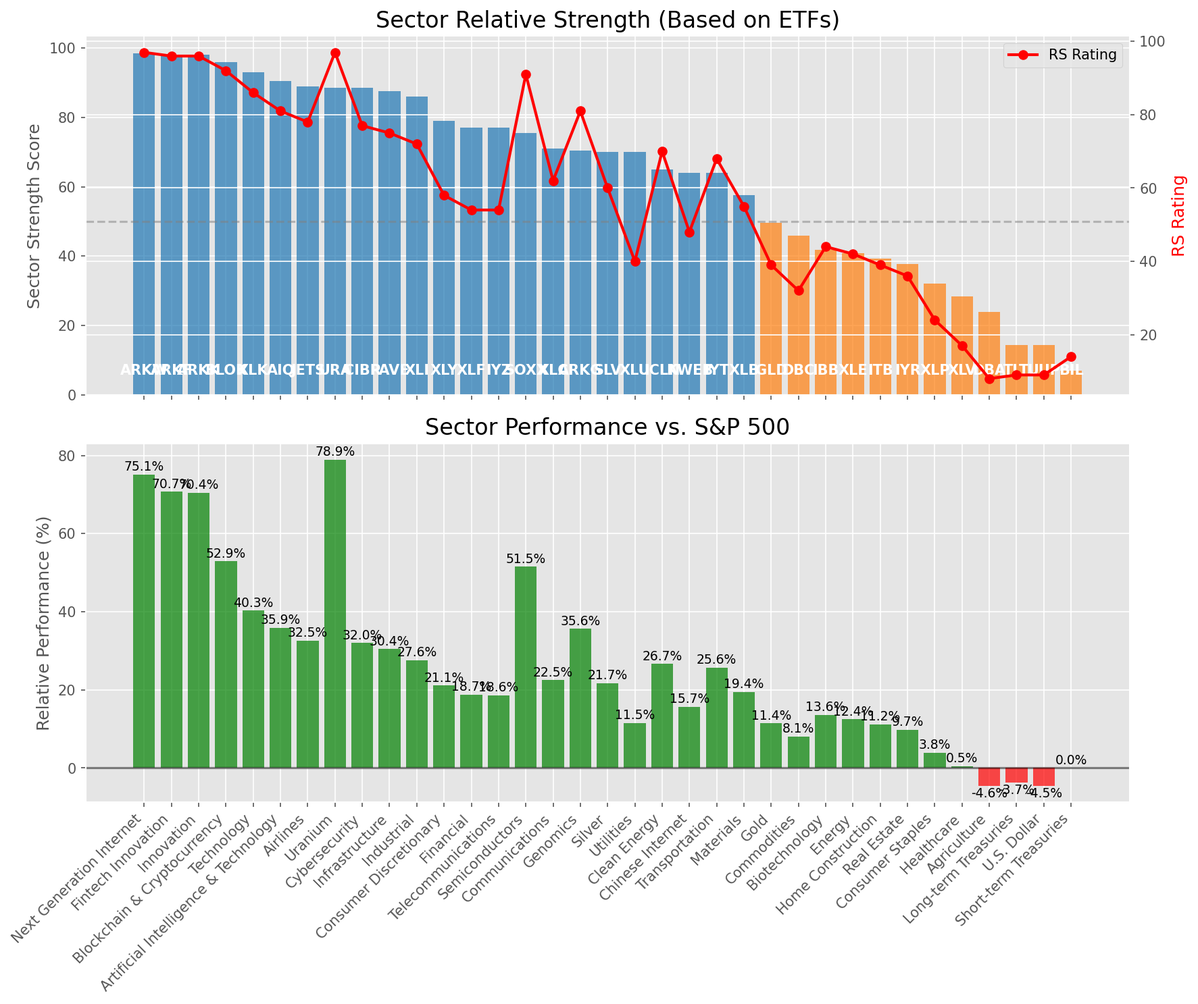
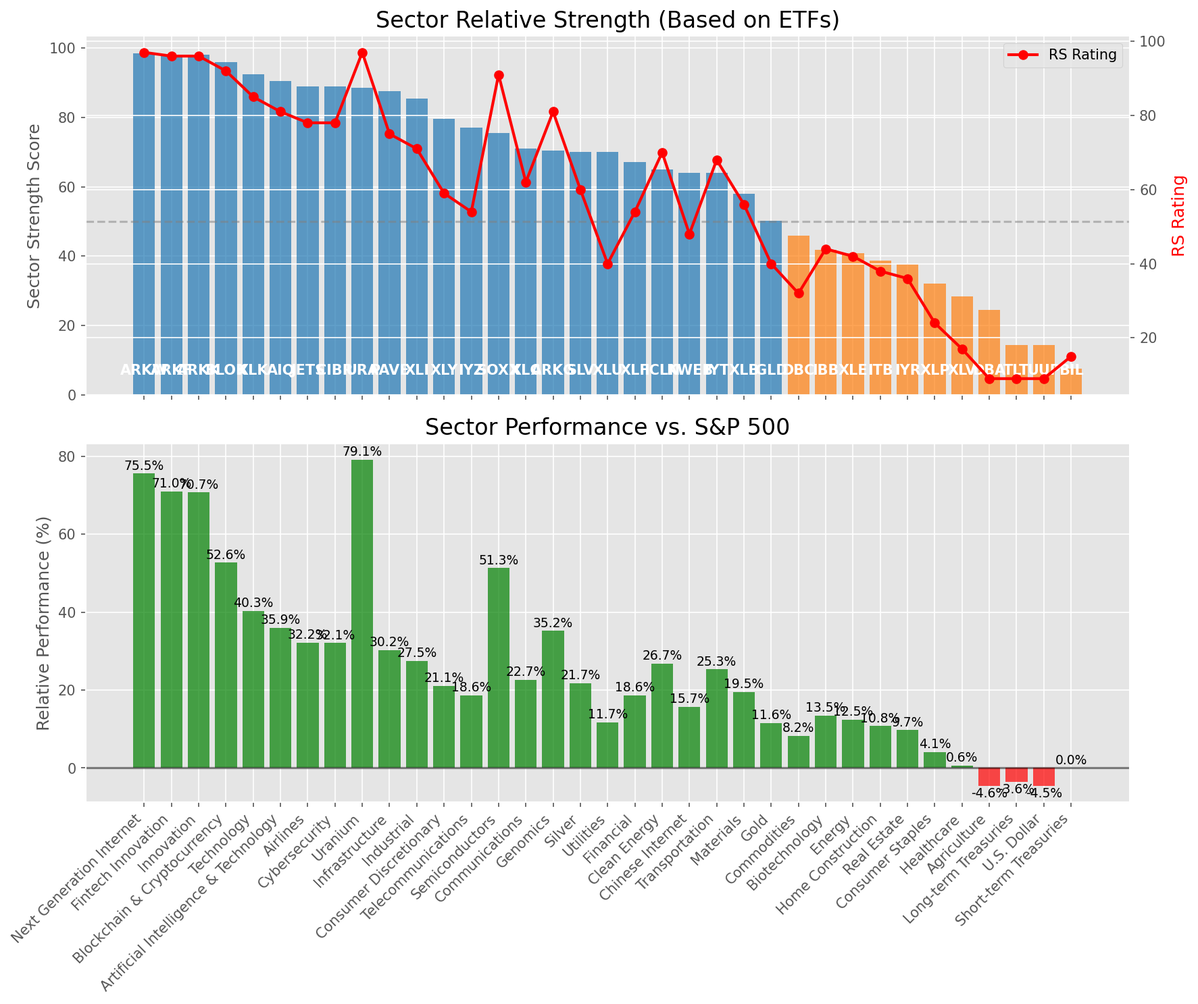
Add market report for 2025-07-09

diff --git a/oneil_relative_strength_report_2025-07-09.md b/oneil_relative_strength_report_2025-07-09.md
@@ -9,11 +9,11 @@
 | Metric | Value |
 |--------|-------|
 | **Market Valuation** | **Overvalued** |
-| **Current Ratio** | 10.24 |
+| **Current Ratio** | 10.25 |
 | **Historical Mean** | 9.42 |
 | **Standard Deviation** | 0.50 |
 | **Z-Score (StdDev from Mean)** | 1.54 |
-| **Total Market Cap** | $306.95 trillion |
+| **Total Market Cap** | $307.20 trillion |
 | **GDP** | $29.96 trillion |
 
 ## **Market Insights**
@@ -49,41 +49,41 @@ Based on William O'Neil's Relative Strength Methodology
 
 | ETF | Strength | RS Rating | Performance | Above Key MAs | Trend | Sector |
 |-----|----------|-----------|-------------|--------------|-------|--------|
-| [ARKW](https://www.tradingview.com/chart/?symbol=ARKW) | 98.5 | 97.0 | 75.14% | 10d ✓, 50d ✓, 200d ✓ | ↗ | Next Generation Internet |
-| [ARKF](https://www.tradingview.com/chart/?symbol=ARKF) | 98.0 | 96.0 | 70.68% | 10d ✓, 50d ✓, 200d ✓ | ↗ | Fintech Innovation |
-| [ARKK](https://www.tradingview.com/chart/?symbol=ARKK) | 98.0 | 96.0 | 70.42% | 10d ✓, 50d ✓, 200d ✓ | ↗ | Innovation |
-| [BLOK](https://www.tradingview.com/chart/?symbol=BLOK) | 96.0 | 92.0 | 52.91% | 10d ✓, 50d ✓, 200d ✓ | ↗ | Blockchain & Cryptocurrency |
-| [XLK](https://www.tradingview.com/chart/?symbol=XLK) | 93.0 | 86.0 | 40.27% | 10d ✓, 50d ✓, 200d ✓ | ↗ | Technology |
-| [AIQ](https://www.tradingview.com/chart/?symbol=AIQ) | 90.5 | 81.0 | 35.87% | 10d ✓, 50d ✓, 200d ✓ | ↗ | Artificial Intelligence & Technology |
-| [JETS](https://www.tradingview.com/chart/?symbol=JETS) | 89.0 | 78.0 | 32.55% | 10d ✓, 50d ✓, 200d ✓ | ↗ | Airlines |
-| [URA](https://www.tradingview.com/chart/?symbol=URA) | 88.6 | 97.0 | 78.91% | 10d ✗, 50d ✓, 200d ✓ | ↗ | Uranium |
-| [CIBR](https://www.tradingview.com/chart/?symbol=CIBR) | 88.5 | 77.0 | 31.99% | 10d ✓, 50d ✓, 200d ✓ | ↗ | Cybersecurity |
-| [PAVE](https://www.tradingview.com/chart/?symbol=PAVE) | 87.5 | 75.0 | 30.41% | 10d ✓, 50d ✓, 200d ✓ | ↗ | Infrastructure |
-| [XLI](https://www.tradingview.com/chart/?symbol=XLI) | 86.0 | 72.0 | 27.63% | 10d ✓, 50d ✓, 200d ✓ | ↗ | Industrial |
-| [XLY](https://www.tradingview.com/chart/?symbol=XLY) | 79.0 | 58.0 | 21.08% | 10d ✓, 50d ✓, 200d ✓ | ↗ | Consumer Discretionary |
-| [XLF](https://www.tradingview.com/chart/?symbol=XLF) | 77.0 | 54.0 | 18.72% | 10d ✓, 50d ✓, 200d ✓ | ↗ | Financial |
-| [IYZ](https://www.tradingview.com/chart/?symbol=IYZ) | 77.0 | 54.0 | 18.58% | 10d ✓, 50d ✓, 200d ✓ | ↗ | Telecommunications |
-| [SOXX](https://www.tradingview.com/chart/?symbol=SOXX) | 75.5 | 91.0 | 51.50% | 10d ✓, 50d ✓, 200d ✓ | ↘ | Semiconductors |
-| [XLC](https://www.tradingview.com/chart/?symbol=XLC) | 71.1 | 62.0 | 22.51% | 10d ✗, 50d ✓, 200d ✓ | ↗ | Communications |
-| [ARKG](https://www.tradingview.com/chart/?symbol=ARKG) | 70.5 | 81.0 | 35.60% | 10d ✓, 50d ✓, 200d ✓ | ↘ | Genomics |
-| [SLV](https://www.tradingview.com/chart/?symbol=SLV) | 70.1 | 60.0 | 21.74% | 10d ✗, 50d ✓, 200d ✓ | ↗ | Silver |
-| [XLU](https://www.tradingview.com/chart/?symbol=XLU) | 70.0 | 40.0 | 11.51% | 10d ✓, 50d ✓, 200d ✓ | ↗ | Utilities |
-| [ICLN](https://www.tradingview.com/chart/?symbol=ICLN) | 65.0 | 70.0 | 26.65% | 10d ✓, 50d ✓, 200d ✓ | ↘ | Clean Energy |
-| [KWEB](https://www.tradingview.com/chart/?symbol=KWEB) | 64.1 | 48.0 | 15.71% | 10d ✗, 50d ✓, 200d ✓ | ↗ | Chinese Internet |
-| [IYT](https://www.tradingview.com/chart/?symbol=IYT) | 64.0 | 68.0 | 25.62% | 10d ✓, 50d ✓, 200d ✓ | ↘ | Transportation |
-| [XLB](https://www.tradingview.com/chart/?symbol=XLB) | 57.5 | 55.0 | 19.42% | 10d ✓, 50d ✓, 200d ✓ | ↘ | Materials |
-| [GLD](https://www.tradingview.com/chart/?symbol=GLD) | 49.7 | 39.0 | 11.42% | 10d ✗, 50d ✗, 200d ✓ | ↗ | Gold |
-| [DBC](https://www.tradingview.com/chart/?symbol=DBC) | 46.0 | 32.0 | 8.10% | 10d ✓, 50d ✓, 200d ✓ | ↘ | Commodities |
-| [IBB](https://www.tradingview.com/chart/?symbol=IBB) | 41.8 | 44.0 | 13.58% | 10d ✓, 50d ✓, 200d ✗ | ↘ | Biotechnology |
-| [XLE](https://www.tradingview.com/chart/?symbol=XLE) | 40.8 | 42.0 | 12.43% | 10d ✓, 50d ✓, 200d ✗ | ↘ | Energy |
-| [ITB](https://www.tradingview.com/chart/?symbol=ITB) | 39.3 | 39.0 | 11.19% | 10d ✓, 50d ✓, 200d ✗ | ↘ | Home Construction |
-| [IYR](https://www.tradingview.com/chart/?symbol=IYR) | 37.8 | 36.0 | 9.74% | 10d ✓, 50d ✓, 200d ✗ | ↘ | Real Estate |
-| [XLP](https://www.tradingview.com/chart/?symbol=XLP) | 32.0 | 24.0 | 3.85% | 10d ✗, 50d ✗, 200d ✗ | ↗ | Consumer Staples |
-| [XLV](https://www.tradingview.com/chart/?symbol=XLV) | 28.3 | 17.0 | 0.46% | 10d ✓, 50d ✓, 200d ✗ | ↘ | Healthcare |
-| [DBA](https://www.tradingview.com/chart/?symbol=DBA) | 24.0 | 8.0 | -4.60% | 10d ✗, 50d ✗, 200d ✗ | ↗ | Agriculture |
-| [TLT](https://www.tradingview.com/chart/?symbol=TLT) | 14.4 | 9.0 | -3.66% | 10d ✗, 50d ✓, 200d ✗ | ↘ | Long-term Treasuries |
+| [ARKW](https://www.tradingview.com/chart/?symbol=ARKW) | 98.5 | 97.0 | 75.55% | 10d ✓, 50d ✓, 200d ✓ | ↗ | Next Generation Internet |
+| [ARKF](https://www.tradingview.com/chart/?symbol=ARKF) | 98.0 | 96.0 | 70.98% | 10d ✓, 50d ✓, 200d ✓ | ↗ | Fintech Innovation |
+| [ARKK](https://www.tradingview.com/chart/?symbol=ARKK) | 98.0 | 96.0 | 70.67% | 10d ✓, 50d ✓, 200d ✓ | ↗ | Innovation |
+| [BLOK](https://www.tradingview.com/chart/?symbol=BLOK) | 96.0 | 92.0 | 52.65% | 10d ✓, 50d ✓, 200d ✓ | ↗ | Blockchain & Cryptocurrency |
+| [XLK](https://www.tradingview.com/chart/?symbol=XLK) | 92.5 | 85.0 | 40.28% | 10d ✓, 50d ✓, 200d ✓ | ↗ | Technology |
+| [AIQ](https://www.tradingview.com/chart/?symbol=AIQ) | 90.5 | 81.0 | 35.95% | 10d ✓, 50d ✓, 200d ✓ | ↗ | Artificial Intelligence & Technology |
+| [JETS](https://www.tradingview.com/chart/?symbol=JETS) | 89.0 | 78.0 | 32.19% | 10d ✓, 50d ✓, 200d ✓ | ↗ | Airlines |
+| [CIBR](https://www.tradingview.com/chart/?symbol=CIBR) | 89.0 | 78.0 | 32.07% | 10d ✓, 50d ✓, 200d ✓ | ↗ | Cybersecurity |
+| [URA](https://www.tradingview.com/chart/?symbol=URA) | 88.6 | 97.0 | 79.08% | 10d ✗, 50d ✓, 200d ✓ | ↗ | Uranium |
+| [PAVE](https://www.tradingview.com/chart/?symbol=PAVE) | 87.5 | 75.0 | 30.19% | 10d ✓, 50d ✓, 200d ✓ | ↗ | Infrastructure |
+| [XLI](https://www.tradingview.com/chart/?symbol=XLI) | 85.5 | 71.0 | 27.47% | 10d ✓, 50d ✓, 200d ✓ | ↗ | Industrial |
+| [XLY](https://www.tradingview.com/chart/?symbol=XLY) | 79.5 | 59.0 | 21.07% | 10d ✓, 50d ✓, 200d ✓ | ↗ | Consumer Discretionary |
+| [IYZ](https://www.tradingview.com/chart/?symbol=IYZ) | 77.0 | 54.0 | 18.60% | 10d ✓, 50d ✓, 200d ✓ | ↗ | Telecommunications |
+| [SOXX](https://www.tradingview.com/chart/?symbol=SOXX) | 75.5 | 91.0 | 51.31% | 10d ✓, 50d ✓, 200d ✓ | ↘ | Semiconductors |
+| [XLC](https://www.tradingview.com/chart/?symbol=XLC) | 71.1 | 62.0 | 22.67% | 10d ✗, 50d ✓, 200d ✓ | ↗ | Communications |
+| [ARKG](https://www.tradingview.com/chart/?symbol=ARKG) | 70.5 | 81.0 | 35.18% | 10d ✓, 50d ✓, 200d ✓ | ↘ | Genomics |
+| [SLV](https://www.tradingview.com/chart/?symbol=SLV) | 70.1 | 60.0 | 21.72% | 10d ✗, 50d ✓, 200d ✓ | ↗ | Silver |
+| [XLU](https://www.tradingview.com/chart/?symbol=XLU) | 70.0 | 40.0 | 11.68% | 10d ✓, 50d ✓, 200d ✓ | ↗ | Utilities |
+| [XLF](https://www.tradingview.com/chart/?symbol=XLF) | 67.1 | 54.0 | 18.61% | 10d ✗, 50d ✓, 200d ✓ | ↗ | Financial |
+| [ICLN](https://www.tradingview.com/chart/?symbol=ICLN) | 65.0 | 70.0 | 26.74% | 10d ✓, 50d ✓, 200d ✓ | ↘ | Clean Energy |
+| [KWEB](https://www.tradingview.com/chart/?symbol=KWEB) | 64.1 | 48.0 | 15.69% | 10d ✗, 50d ✓, 200d ✓ | ↗ | Chinese Internet |
+| [IYT](https://www.tradingview.com/chart/?symbol=IYT) | 64.0 | 68.0 | 25.30% | 10d ✓, 50d ✓, 200d ✓ | ↘ | Transportation |
+| [XLB](https://www.tradingview.com/chart/?symbol=XLB) | 58.0 | 56.0 | 19.54% | 10d ✓, 50d ✓, 200d ✓ | ↘ | Materials |
+| [GLD](https://www.tradingview.com/chart/?symbol=GLD) | 50.2 | 40.0 | 11.59% | 10d ✗, 50d ✗, 200d ✓ | ↗ | Gold |
+| [DBC](https://www.tradingview.com/chart/?symbol=DBC) | 46.0 | 32.0 | 8.19% | 10d ✓, 50d ✓, 200d ✓ | ↘ | Commodities |
+| [IBB](https://www.tradingview.com/chart/?symbol=IBB) | 41.8 | 44.0 | 13.48% | 10d ✓, 50d ✓, 200d ✗ | ↘ | Biotechnology |
+| [XLE](https://www.tradingview.com/chart/?symbol=XLE) | 40.8 | 42.0 | 12.47% | 10d ✓, 50d ✓, 200d ✗ | ↘ | Energy |
+| [ITB](https://www.tradingview.com/chart/?symbol=ITB) | 38.8 | 38.0 | 10.77% | 10d ✓, 50d ✓, 200d ✗ | ↘ | Home Construction |
+| [IYR](https://www.tradingview.com/chart/?symbol=IYR) | 37.8 | 36.0 | 9.70% | 10d ✓, 50d ✓, 200d ✗ | ↘ | Real Estate |
+| [XLP](https://www.tradingview.com/chart/?symbol=XLP) | 32.0 | 24.0 | 4.07% | 10d ✗, 50d ✗, 200d ✗ | ↗ | Consumer Staples |
+| [XLV](https://www.tradingview.com/chart/?symbol=XLV) | 28.3 | 17.0 | 0.59% | 10d ✓, 50d ✓, 200d ✗ | ↘ | Healthcare |
+| [DBA](https://www.tradingview.com/chart/?symbol=DBA) | 24.5 | 9.0 | -4.60% | 10d ✗, 50d ✗, 200d ✗ | ↗ | Agriculture |
+| [TLT](https://www.tradingview.com/chart/?symbol=TLT) | 14.4 | 9.0 | -3.56% | 10d ✗, 50d ✓, 200d ✗ | ↘ | Long-term Treasuries |
 | [UUP](https://www.tradingview.com/chart/?symbol=UUP) | 14.4 | 9.0 | -4.51% | 10d ✓, 50d ✗, 200d ✗ | ↘ | U.S. Dollar |
-| [BIL](https://www.tradingview.com/chart/?symbol=BIL) | 7.0 | 14.0 | 0.04% | 10d ✗, 50d ✗, 200d ✗ | ↘ | Short-term Treasuries |
+| [BIL](https://www.tradingview.com/chart/?symbol=BIL) | 7.5 | 15.0 | 0.03% | 10d ✗, 50d ✗, 200d ✗ | ↘ | Short-term Treasuries |
 
 ### **Sector ETF Performance Interpretation**
 
@@ -100,167 +100,165 @@ This table shows the relative strength metrics for different market sectors base
 
 The current market leadership is coming from the following sectors: **Next Generation Internet, Fintech Innovation, Innovation**.
 
-The **Next Generation Internet** sector (represented by **ARKW**) is showing particularly strong relative strength with an RS rating of 97.0 and performance of 75.14% vs. the S&P 500. This sector is trading above its 10-day, 50-day, 200-day moving average(s). Investors should consider focusing on high RS stocks within these leading sectors for potential outperformance.
+The **Next Generation Internet** sector (represented by **ARKW**) is showing particularly strong relative strength with an RS rating of 97.0 and performance of 75.55% vs. the S&P 500. This sector is trading above its 10-day, 50-day, 200-day moving average(s). Investors should consider focusing on high RS stocks within these leading sectors for potential outperformance.
 
 ---
 
 ## **Buy Recommendations**
 
-The following 45 stocks show exceptional relative strength:
+The following 47 stocks show exceptional relative strength:
 
 | RS Rating | Buy Score | Current Price | Chart | Name | Ticker |
 |-----------|-----------|---------------|-------|------|--------|
-| 100 | 100 | $177.22 | [Chart](https://www.tradingview.com/chart/?symbol=LEU) | Centrus Energy Corp. | LEU |
-| 100 | 100 | $93.59 | [Chart](https://www.tradingview.com/chart/?symbol=HOOD) | Robinhood Markets, Inc. Class A Common Stock | HOOD |
-| 99 | 100 | $76.03 | [Chart](https://www.tradingview.com/chart/?symbol=ODD) | ODDITY Tech Ltd. Class A Ordinary Shares | ODD |
-| 99 | 100 | $106.06 | [Chart](https://www.tradingview.com/chart/?symbol=RBLX) | Roblox Corporation | RBLX |
+| 100 | 100 | $177.65 | [Chart](https://www.tradingview.com/chart/?symbol=LEU) | Centrus Energy Corp. | LEU |
+| 100 | 100 | $93.77 | [Chart](https://www.tradingview.com/chart/?symbol=HOOD) | Robinhood Markets, Inc. Class A Common Stock | HOOD |
+| 99 | 100 | $106.47 | [Chart](https://www.tradingview.com/chart/?symbol=RBLX) | Roblox Corporation | RBLX |
 | 99 | 100 | $143.48 | [Chart](https://www.tradingview.com/chart/?symbol=LMB) | Limbach Holdings, Inc Common Stock | LMB |
-| 99 | 100 | $353.31 | [Chart](https://www.tradingview.com/chart/?symbol=CVNA) | Carvana Co. | CVNA |
-| 98 | 100 | $143.60 | [Chart](https://www.tradingview.com/chart/?symbol=FUTU) | Futu Holdings Limited American Depositary Shares | FUTU |
-| 98 | 100 | $43.94 | [Chart](https://www.tradingview.com/chart/?symbol=FARO) | Faro Technologies Inc | FARO |
-| 98 | 100 | $141.43 | [Chart](https://www.tradingview.com/chart/?symbol=PLTR) | Palantir Technologies Inc. Class A Common Stock | PLTR |
-| 98 | 100 | $104.76 | [Chart](https://www.tradingview.com/chart/?symbol=VRNA) | Verona Pharma plc | VRNA |
-| 98 | 100 | $540.34 | [Chart](https://www.tradingview.com/chart/?symbol=GEV) | GE Vernova Inc. | GEV |
-| 97 | 100 | $316.42 | [Chart](https://www.tradingview.com/chart/?symbol=ZS) | Zscaler, Inc. Common Stock | ZS |
-| 96 | 100 | $50.97 | [Chart](https://www.tradingview.com/chart/?symbol=ARKF) | ARK Fintech Innovation ETF | ARKF |
-| 96 | 100 | $91.39 | [Chart](https://www.tradingview.com/chart/?symbol=RBRK) | Rubrik, Inc. | RBRK |
-| 96 | 100 | $38.56 | [Chart](https://www.tradingview.com/chart/?symbol=AS) | Amer Sports, Inc. | AS |
-| 94 | 100 | $21.32 | [Chart](https://www.tradingview.com/chart/?symbol=MAG) | MAG Silver Corp. | MAG |
-| 94 | 100 | $88.06 | [Chart](https://www.tradingview.com/chart/?symbol=RYTM) | Rhythm Pharmaceuticals, Inc. Common Stock | RYTM |
-| 94 | 100 | $45.73 | [Chart](https://www.tradingview.com/chart/?symbol=KTOS) | Kratos Defense & Security Solutions, Inc. | KTOS |
-| 94 | 100 | $58.24 | [Chart](https://www.tradingview.com/chart/?symbol=IBKR) | Interactive Brokers Group, Inc. Class A Common Stock | IBKR |
-| 94 | 100 | $51.48 | [Chart](https://www.tradingview.com/chart/?symbol=INOD) | Innodata Inc. | INOD |
-| 93 | 100 | $181.47 | [Chart](https://www.tradingview.com/chart/?symbol=HWM) | Howmet Aerospace Inc. | HWM |
-| 93 | 100 | $71.51 | [Chart](https://www.tradingview.com/chart/?symbol=URBN) | Urban Outfitters Inc | URBN |
-| 93 | 100 | $30.31 | [Chart](https://www.tradingview.com/chart/?symbol=DB) | Deutsche Bank Aktiengesellschaft | DB |
-| 93 | 100 | $252.73 | [Chart](https://www.tradingview.com/chart/?symbol=WWD) | Woodward, Inc. | WWD |
-| 93 | 100 | $508.57 | [Chart](https://www.tradingview.com/chart/?symbol=CRWD) | CrowdStrike Holdings, Inc. Class A Common Stock | CRWD |
-| 92 | 100 | $355.17 | [Chart](https://www.tradingview.com/chart/?symbol=APP) | Applovin Corporation Class A Common Stock | APP |
-| 92 | 100 | $46.69 | [Chart](https://www.tradingview.com/chart/?symbol=DRS) | Leonardo DRS, Inc. Common Stock | DRS |
-| 92 | 100 | $42.90 | [Chart](https://www.tradingview.com/chart/?symbol=KD) | Kyndryl Holdings, Inc. | KD |
-| 91 | 100 | $95.33 | [Chart](https://www.tradingview.com/chart/?symbol=TPR) | Tapestry, Inc. Common Stock | TPR |
-| 91 | 100 | $46.23 | [Chart](https://www.tradingview.com/chart/?symbol=BBIO) | BridgeBio Pharma, Inc. Common Stock | BBIO |
-| 90 | 100 | $245.09 | [Chart](https://www.tradingview.com/chart/?symbol=DASH) | DoorDash, Inc. Class A Common Stock | DASH |
-| 89 | 100 | $18.57 | [Chart](https://www.tradingview.com/chart/?symbol=BCS) | Barclays PLC | BCS |
-| 87 | 100 | $29.27 | [Chart](https://www.tradingview.com/chart/?symbol=SRAD) | Sportradar Group AG Class A Ordinary Shares | SRAD |
-| 89 | 99 | $103.55 | [Chart](https://www.tradingview.com/chart/?symbol=SANM) | Sanmina  Corp | SANM |
-| 89 | 99 | $29.81 | [Chart](https://www.tradingview.com/chart/?symbol=NTGR) | NETGEAR, Inc. | NTGR |
-| 86 | 99 | $29.68 | [Chart](https://www.tradingview.com/chart/?symbol=CAE) | CAE INC | CAE |
-| 86 | 96 | $62.24 | [Chart](https://www.tradingview.com/chart/?symbol=IBIT) | iShares Bitcoin Trust ETF | IBIT |
-| 85 | 96 | $25.21 | [Chart](https://www.tradingview.com/chart/?symbol=KAR) | OPENLANE, Inc | KAR |
-| 85 | 96 | $35.77 | [Chart](https://www.tradingview.com/chart/?symbol=ATAT) | Atour Lifestyle Holdings Limited American Depositary Shares | ATAT |
-| 83 | 95 | $60.19 | [Chart](https://www.tradingview.com/chart/?symbol=SHLD) | Global X Defense Tech ETF | SHLD |
-| 81 | 95 | $95.58 | [Chart](https://www.tradingview.com/chart/?symbol=SNEX) | StoneX Group Inc. Common Stock | SNEX |
-| 84 | 94 | $46.28 | [Chart](https://www.tradingview.com/chart/?symbol=AU) | AngloGold Ashanti plc | AU |
-| 82 | 93 | $75.80 | [Chart](https://www.tradingview.com/chart/?symbol=CTVA) | Corteva, Inc. Common Stock | CTVA |
-| 81 | 93 | $26.49 | [Chart](https://www.tradingview.com/chart/?symbol=OR) | OR Royalties Inc. | OR |
-| 80 | 90 | $112.08 | [Chart](https://www.tradingview.com/chart/?symbol=SPMO) | Invesco S&P 500 Momentum ETF | SPMO |
+| 99 | 100 | $76.25 | [Chart](https://www.tradingview.com/chart/?symbol=ODD) | ODDITY Tech Ltd. Class A Ordinary Shares | ODD |
+| 99 | 100 | $349.91 | [Chart](https://www.tradingview.com/chart/?symbol=CVNA) | Carvana Co. | CVNA |
+| 98 | 100 | $142.50 | [Chart](https://www.tradingview.com/chart/?symbol=PLTR) | Palantir Technologies Inc. Class A Common Stock | PLTR |
+| 98 | 100 | $143.06 | [Chart](https://www.tradingview.com/chart/?symbol=FUTU) | Futu Holdings Limited American Depositary Shares | FUTU |
+| 98 | 100 | $43.92 | [Chart](https://www.tradingview.com/chart/?symbol=FARO) | Faro Technologies Inc | FARO |
+| 98 | 100 | $104.75 | [Chart](https://www.tradingview.com/chart/?symbol=VRNA) | Verona Pharma plc | VRNA |
+| 98 | 100 | $536.32 | [Chart](https://www.tradingview.com/chart/?symbol=GEV) | GE Vernova Inc. | GEV |
+| 97 | 100 | $316.80 | [Chart](https://www.tradingview.com/chart/?symbol=ZS) | Zscaler, Inc. Common Stock | ZS |
+| 96 | 100 | $91.65 | [Chart](https://www.tradingview.com/chart/?symbol=RBRK) | Rubrik, Inc. | RBRK |
+| 96 | 100 | $51.05 | [Chart](https://www.tradingview.com/chart/?symbol=ARKF) | ARK Fintech Innovation ETF | ARKF |
+| 96 | 100 | $38.38 | [Chart](https://www.tradingview.com/chart/?symbol=AS) | Amer Sports, Inc. | AS |
+| 95 | 100 | $51.78 | [Chart](https://www.tradingview.com/chart/?symbol=INOD) | Innodata Inc. | INOD |
+| 95 | 100 | $45.96 | [Chart](https://www.tradingview.com/chart/?symbol=KTOS) | Kratos Defense & Security Solutions, Inc. | KTOS |
+| 94 | 100 | $21.37 | [Chart](https://www.tradingview.com/chart/?symbol=MAG) | MAG Silver Corp. | MAG |
+| 94 | 100 | $58.27 | [Chart](https://www.tradingview.com/chart/?symbol=IBKR) | Interactive Brokers Group, Inc. Class A Common Stock | IBKR |
+| 94 | 100 | $87.04 | [Chart](https://www.tradingview.com/chart/?symbol=RYTM) | Rhythm Pharmaceuticals, Inc. Common Stock | RYTM |
+| 93 | 100 | $30.34 | [Chart](https://www.tradingview.com/chart/?symbol=DB) | Deutsche Bank Aktiengesellschaft | DB |
+| 93 | 100 | $251.66 | [Chart](https://www.tradingview.com/chart/?symbol=WWD) | Woodward, Inc. | WWD |
+| 93 | 100 | $181.42 | [Chart](https://www.tradingview.com/chart/?symbol=HWM) | Howmet Aerospace Inc. | HWM |
+| 93 | 100 | $510.81 | [Chart](https://www.tradingview.com/chart/?symbol=CRWD) | CrowdStrike Holdings, Inc. Class A Common Stock | CRWD |
+| 92 | 100 | $46.83 | [Chart](https://www.tradingview.com/chart/?symbol=DRS) | Leonardo DRS, Inc. Common Stock | DRS |
+| 92 | 100 | $354.66 | [Chart](https://www.tradingview.com/chart/?symbol=APP) | Applovin Corporation Class A Common Stock | APP |
+| 92 | 100 | $43.00 | [Chart](https://www.tradingview.com/chart/?symbol=KD) | Kyndryl Holdings, Inc. | KD |
+| 91 | 100 | $46.05 | [Chart](https://www.tradingview.com/chart/?symbol=BBIO) | BridgeBio Pharma, Inc. Common Stock | BBIO |
+| 91 | 100 | $94.77 | [Chart](https://www.tradingview.com/chart/?symbol=TPR) | Tapestry, Inc. Common Stock | TPR |
+| 91 | 100 | $289.39 | [Chart](https://www.tradingview.com/chart/?symbol=RL) | Ralph Lauren Corporation | RL |
+| 90 | 100 | $245.69 | [Chart](https://www.tradingview.com/chart/?symbol=DASH) | DoorDash, Inc. Class A Common Stock | DASH |
+| 89 | 100 | $18.59 | [Chart](https://www.tradingview.com/chart/?symbol=BCS) | Barclays PLC | BCS |
+| 87 | 100 | $29.32 | [Chart](https://www.tradingview.com/chart/?symbol=SRAD) | Sportradar Group AG Class A Ordinary Shares | SRAD |
+| 89 | 99 | $102.81 | [Chart](https://www.tradingview.com/chart/?symbol=SANM) | Sanmina  Corp | SANM |
+| 89 | 99 | $29.77 | [Chart](https://www.tradingview.com/chart/?symbol=NTGR) | NETGEAR, Inc. | NTGR |
+| 86 | 99 | $29.64 | [Chart](https://www.tradingview.com/chart/?symbol=CAE) | CAE INC | CAE |
+| 86 | 96 | $62.40 | [Chart](https://www.tradingview.com/chart/?symbol=IBIT) | iShares Bitcoin Trust ETF | IBIT |
+| 85 | 96 | $25.13 | [Chart](https://www.tradingview.com/chart/?symbol=KAR) | OPENLANE, Inc | KAR |
+| 85 | 96 | $35.98 | [Chart](https://www.tradingview.com/chart/?symbol=ATAT) | Atour Lifestyle Holdings Limited American Depositary Shares | ATAT |
+| 84 | 96 | $60.27 | [Chart](https://www.tradingview.com/chart/?symbol=SHLD) | Global X Defense Tech ETF | SHLD |
+| 82 | 96 | $95.80 | [Chart](https://www.tradingview.com/chart/?symbol=SNEX) | StoneX Group Inc. Common Stock | SNEX |
+| 85 | 95 | $46.62 | [Chart](https://www.tradingview.com/chart/?symbol=AU) | AngloGold Ashanti plc | AU |
+| 85 | 94 | $48.31 | [Chart](https://www.tradingview.com/chart/?symbol=SIL) | Global X Silver Miners ETF (NEW) | SIL |
+| 83 | 94 | $76.02 | [Chart](https://www.tradingview.com/chart/?symbol=CTVA) | Corteva, Inc. Common Stock | CTVA |
+| 82 | 94 | $26.52 | [Chart](https://www.tradingview.com/chart/?symbol=OR) | OR Royalties Inc. | OR |
+| 82 | 92 | $256.36 | [Chart](https://www.tradingview.com/chart/?symbol=WTS) | Watts Water Technologies, Inc. Class A | WTS |
+| 80 | 90 | $112.10 | [Chart](https://www.tradingview.com/chart/?symbol=SPMO) | Invesco S&P 500 Momentum ETF | SPMO |
 
 ---
 
 
 ## **Sell Recommendations**
 
-The following 96 stocks show deteriorating relative strength:
+The following 92 stocks show deteriorating relative strength:
 
 | RS Rating | Sell Score | Current Price | Chart | Name | Ticker |
 |-----------|------------|---------------|-------|------|--------|
+| 1 | 100 | $25.00 | [Chart](https://www.tradingview.com/chart/?symbol=QID) | ProShares UltraShort QQQ | QID |
 | 1 | 100 | $25.48 | [Chart](https://www.tradingview.com/chart/?symbol=TECS) | Direxion Daily Technology Bear 3x Shares | TECS |
-| 1 | 100 | $25.04 | [Chart](https://www.tradingview.com/chart/?symbol=QID) | ProShares UltraShort QQQ | QID |
-| 1 | 100 | $16.42 | [Chart](https://www.tradingview.com/chart/?symbol=SDS) | ProShares UltraShort S&P500 | SDS |
-| 1 | 100 | $40.60 | [Chart](https://www.tradingview.com/chart/?symbol=SDOW) | ProShares UltraPro Short Dow 30 | SDOW |
-| 1 | 100 | $13.79 | [Chart](https://www.tradingview.com/chart/?symbol=NVDS) | Investment Managers Series Trust II Tradr 1.5X Short NVDA Daily ETF | NVDS |
-| 2 | 100 | $23.92 | [Chart](https://www.tradingview.com/chart/?symbol=DXD) | ProShares UltraShort Dow 30 | DXD |
-| 2 | 100 | $19.32 | [Chart](https://www.tradingview.com/chart/?symbol=BITI) | ProShares Short Bitcoin ETF | BITI |
-| 2 | 100 | $34.83 | [Chart](https://www.tradingview.com/chart/?symbol=SARK) | Investment Managers Series Trust II Tradr 1X Short Innovation Daily ETF | SARK |
-| 2 | 100 | $33.49 | [Chart](https://www.tradingview.com/chart/?symbol=PSQ) | ProShares Short QQQ | PSQ |
-| 2 | 100 | $10.47 | [Chart](https://www.tradingview.com/chart/?symbol=EMBC) | Embecta Corp. Common Stock | EMBC |
-| 2 | 100 | $12.96 | [Chart](https://www.tradingview.com/chart/?symbol=IART) | Integra LifeSciences Holdings | IART |
-| 3 | 100 | $25.32 | [Chart](https://www.tradingview.com/chart/?symbol=DOG) | ProShares Short Dow30 | DOG |
-| 3 | 100 | $39.42 | [Chart](https://www.tradingview.com/chart/?symbol=SH) | ProShares Short S&P500 | SH |
-| 3 | 100 | $24.64 | [Chart](https://www.tradingview.com/chart/?symbol=CRTO) | Criteo S.A. | CRTO |
-| 3 | 100 | $16.97 | [Chart](https://www.tradingview.com/chart/?symbol=HP) | Helmerich & Payne, Inc. | HP |
-| 3 | 100 | $36.68 | [Chart](https://www.tradingview.com/chart/?symbol=IBTA) | Ibotta, Inc. | IBTA |
-| 3 | 100 | $43.00 | [Chart](https://www.tradingview.com/chart/?symbol=LINE) | Lineage, Inc. Common Stock | LINE |
-| 4 | 100 | $10.76 | [Chart](https://www.tradingview.com/chart/?symbol=SONO) | Sonos, Inc. Common Stock | SONO |
-| 4 | 100 | $64.80 | [Chart](https://www.tradingview.com/chart/?symbol=ZROZ) | PIMCO 25+ Year Zero Coupon U.S. Treasury Index Exchange-Traded Fund | ZROZ |
-| 4 | 100 | $10.33 | [Chart](https://www.tradingview.com/chart/?symbol=LBTYK) | Liberty Global Ltd. Class C Common Shares | LBTYK |
-| 4 | 100 | $83.07 | [Chart](https://www.tradingview.com/chart/?symbol=LNTH) | Lantheus Holdings, Inc | LNTH |
-| 4 | 100 | $12.61 | [Chart](https://www.tradingview.com/chart/?symbol=CCRN) | Cross Country Healthcare Inc | CCRN |
-| 5 | 100 | $51.35 | [Chart](https://www.tradingview.com/chart/?symbol=LW) | Lamb Weston Holdings, Inc. | LW |
-| 5 | 100 | $17.04 | [Chart](https://www.tradingview.com/chart/?symbol=NOMD) | Nomad Foods Limited | NOMD |
-| 5 | 100 | $32.30 | [Chart](https://www.tradingview.com/chart/?symbol=CRI) | Carter's Inc. | CRI |
-| 5 | 100 | $16.32 | [Chart](https://www.tradingview.com/chart/?symbol=COLD) | Americold Realty Trust, Inc. | COLD |
-| 5 | 100 | $10.05 | [Chart](https://www.tradingview.com/chart/?symbol=LBTYA) | Liberty Global Ltd. Class A Common Shares | LBTYA |
-| 6 | 100 | $49.42 | [Chart](https://www.tradingview.com/chart/?symbol=CCOI) | Cogent Communications Holdings, Inc. | CCOI |
-| 6 | 100 | $12.79 | [Chart](https://www.tradingview.com/chart/?symbol=GO) | Grocery Outlet Holding Corp. Common Stock | GO |
-| 7 | 100 | $14.56 | [Chart](https://www.tradingview.com/chart/?symbol=SEM) | SELECT MEDICAL HOLDINGS CORP | SEM |
+| 1 | 100 | $16.41 | [Chart](https://www.tradingview.com/chart/?symbol=SDS) | ProShares UltraShort S&P500 | SDS |
+| 1 | 100 | $40.62 | [Chart](https://www.tradingview.com/chart/?symbol=SDOW) | ProShares UltraPro Short Dow 30 | SDOW |
+| 2 | 100 | $23.91 | [Chart](https://www.tradingview.com/chart/?symbol=DXD) | ProShares UltraShort Dow 30 | DXD |
+| 2 | 100 | $33.46 | [Chart](https://www.tradingview.com/chart/?symbol=PSQ) | ProShares Short QQQ | PSQ |
+| 2 | 100 | $19.28 | [Chart](https://www.tradingview.com/chart/?symbol=BITI) | ProShares Short Bitcoin ETF | BITI |
+| 2 | 100 | $12.93 | [Chart](https://www.tradingview.com/chart/?symbol=IART) | Integra LifeSciences Holdings | IART |
+| 2 | 100 | $34.79 | [Chart](https://www.tradingview.com/chart/?symbol=SARK) | Investment Managers Series Trust II Tradr 1X Short Innovation Daily ETF | SARK |
+| 3 | 100 | $42.94 | [Chart](https://www.tradingview.com/chart/?symbol=LINE) | Lineage, Inc. Common Stock | LINE |
+| 3 | 100 | $24.59 | [Chart](https://www.tradingview.com/chart/?symbol=CRTO) | Criteo S.A. | CRTO |
+| 3 | 100 | $12.53 | [Chart](https://www.tradingview.com/chart/?symbol=CCRN) | Cross Country Healthcare Inc | CCRN |
+| 3 | 100 | $39.41 | [Chart](https://www.tradingview.com/chart/?symbol=SH) | ProShares Short S&P500 | SH |
+| 3 | 100 | $25.34 | [Chart](https://www.tradingview.com/chart/?symbol=DOG) | ProShares Short Dow30 | DOG |
+| 3 | 100 | $16.91 | [Chart](https://www.tradingview.com/chart/?symbol=HP) | Helmerich & Payne, Inc. | HP |
+| 3 | 100 | $10.51 | [Chart](https://www.tradingview.com/chart/?symbol=EMBC) | Embecta Corp. Common Stock | EMBC |
+| 3 | 100 | $37.12 | [Chart](https://www.tradingview.com/chart/?symbol=IBTA) | Ibotta, Inc. | IBTA |
+| 4 | 100 | $10.34 | [Chart](https://www.tradingview.com/chart/?symbol=LBTYK) | Liberty Global Ltd. Class C Common Shares | LBTYK |
+| 4 | 100 | $64.86 | [Chart](https://www.tradingview.com/chart/?symbol=ZROZ) | PIMCO 25+ Year Zero Coupon U.S. Treasury Index Exchange-Traded Fund | ZROZ |
+| 4 | 100 | $83.32 | [Chart](https://www.tradingview.com/chart/?symbol=LNTH) | Lantheus Holdings, Inc | LNTH |
+| 5 | 100 | $16.25 | [Chart](https://www.tradingview.com/chart/?symbol=COLD) | Americold Realty Trust, Inc. | COLD |
+| 5 | 100 | $32.24 | [Chart](https://www.tradingview.com/chart/?symbol=CRI) | Carter's Inc. | CRI |
+| 5 | 100 | $10.06 | [Chart](https://www.tradingview.com/chart/?symbol=LBTYA) | Liberty Global Ltd. Class A Common Shares | LBTYA |
+| 6 | 100 | $49.23 | [Chart](https://www.tradingview.com/chart/?symbol=CCOI) | Cogent Communications Holdings, Inc. | CCOI |
+| 6 | 100 | $51.45 | [Chart](https://www.tradingview.com/chart/?symbol=LW) | Lamb Weston Holdings, Inc. | LW |
+| 7 | 100 | $14.55 | [Chart](https://www.tradingview.com/chart/?symbol=SEM) | SELECT MEDICAL HOLDINGS CORP | SEM |
+| 8 | 100 | $14.60 | [Chart](https://www.tradingview.com/chart/?symbol=VRE) | Veris Residential, Inc. | VRE |
 | 8 | 100 | $77.00 | [Chart](https://www.tradingview.com/chart/?symbol=CNS) | Cohen & Steers Inc. | CNS |
-| 8 | 100 | $52.34 | [Chart](https://www.tradingview.com/chart/?symbol=CNMD) | CONMED Corporation | CNMD |
-| 9 | 100 | $14.64 | [Chart](https://www.tradingview.com/chart/?symbol=VRE) | Veris Residential, Inc. | VRE |
-| 10 | 100 | $46.07 | [Chart](https://www.tradingview.com/chart/?symbol=CWT) | California Water Service | CWT |
-| 10 | 100 | $130.85 | [Chart](https://www.tradingview.com/chart/?symbol=KMB) | Kimberly-Clark Corp. | KMB |
-| 10 | 100 | $71.64 | [Chart](https://www.tradingview.com/chart/?symbol=TNET) | TRINET GROUP, INC. | TNET |
+| 8 | 100 | $52.52 | [Chart](https://www.tradingview.com/chart/?symbol=CNMD) | CONMED Corporation | CNMD |
+| 8 | 100 | $10.39 | [Chart](https://www.tradingview.com/chart/?symbol=NMZ) | Nuveen Municipal High Income Opportunity Fund | NMZ |
+| 11 | 100 | $40.82 | [Chart](https://www.tradingview.com/chart/?symbol=POR) | Portland General Electric Company | POR |
+| 11 | 100 | $38.65 | [Chart](https://www.tradingview.com/chart/?symbol=LKQ) | LKQ Corporation | LKQ |
+| 11 | 100 | $131.28 | [Chart](https://www.tradingview.com/chart/?symbol=KMB) | Kimberly-Clark Corp. | KMB |
 | 11 | 100 | $17.70 | [Chart](https://www.tradingview.com/chart/?symbol=ZTO) | ZTO Express (Cayman) Inc. American Depositary Shares, each representing one Class A ordinary share | ZTO |
-| 11 | 100 | $40.77 | [Chart](https://www.tradingview.com/chart/?symbol=POR) | Portland General Electric Company | POR |
+| 11 | 100 | $96.48 | [Chart](https://www.tradingview.com/chart/?symbol=RWR) | SPDR Dow Jones REIT ETF | RWR |
 | 14 | 100 | $29.15 | [Chart](https://www.tradingview.com/chart/?symbol=SPTS) | SPDR Portfolio Short Term Treasury ETF | SPTS |
-| 2 | 99 | $236.34 | [Chart](https://www.tradingview.com/chart/?symbol=MOH) | Molina Healthcare, Inc. | MOH |
-| 6 | 99 | $26.91 | [Chart](https://www.tradingview.com/chart/?symbol=VCYT) | Veracyte, Inc. | VCYT |
-| 12 | 99 | $38.81 | [Chart](https://www.tradingview.com/chart/?symbol=LKQ) | LKQ Corporation | LKQ |
+| 2 | 99 | $236.91 | [Chart](https://www.tradingview.com/chart/?symbol=MOH) | Molina Healthcare, Inc. | MOH |
+| 4 | 99 | $10.74 | [Chart](https://www.tradingview.com/chart/?symbol=SONO) | Sonos, Inc. Common Stock | SONO |
+| 5 | 99 | $17.07 | [Chart](https://www.tradingview.com/chart/?symbol=NOMD) | Nomad Foods Limited | NOMD |
+| 6 | 99 | $12.82 | [Chart](https://www.tradingview.com/chart/?symbol=GO) | Grocery Outlet Holding Corp. Common Stock | GO |
+| 6 | 99 | $26.88 | [Chart](https://www.tradingview.com/chart/?symbol=VCYT) | Veracyte, Inc. | VCYT |
+| 10 | 99 | $71.29 | [Chart](https://www.tradingview.com/chart/?symbol=TNET) | TRINET GROUP, INC. | TNET |
+| 10 | 99 | $46.20 | [Chart](https://www.tradingview.com/chart/?symbol=CWT) | California Water Service | CWT |
+| 13 | 98 | $82.90 | [Chart](https://www.tradingview.com/chart/?symbol=KSPI) | Joint Stock Company Kaspi.kz American Depository Shares | KSPI |
 | 6 | 97 | $25.28 | [Chart](https://www.tradingview.com/chart/?symbol=DRV) | Direxion Daily Real Estate Bear 3X Shares | DRV |
-| 14 | 97 | $22.84 | [Chart](https://www.tradingview.com/chart/?symbol=IBTG) | iShares iBonds Dec 2026 Term Treasury ETF | IBTG |
-| 14 | 97 | $83.13 | [Chart](https://www.tradingview.com/chart/?symbol=KSPI) | Joint Stock Company Kaspi.kz American Depository Shares | KSPI |
-| 13 | 96 | $105.37 | [Chart](https://www.tradingview.com/chart/?symbol=DECK) | Deckers Outdoor Corp | DECK |
+| 12 | 97 | $104.67 | [Chart](https://www.tradingview.com/chart/?symbol=DECK) | Deckers Outdoor Corp | DECK |
+| 14 | 96 | $22.85 | [Chart](https://www.tradingview.com/chart/?symbol=IBTG) | iShares iBonds Dec 2026 Term Treasury ETF | IBTG |
 | 8 | 95 | $68.95 | [Chart](https://www.tradingview.com/chart/?symbol=BRC) | Brady Corporation | BRC |
-| 9 | 95 | $63.23 | [Chart](https://www.tradingview.com/chart/?symbol=COLM) | Columbia Sportswear Co | COLM |
-| 9 | 95 | $48.83 | [Chart](https://www.tradingview.com/chart/?symbol=SNY) | Sanofi American Depositary Shares (Each representing one-half of one ordinary share) | SNY |
-| 11 | 95 | $62.13 | [Chart](https://www.tradingview.com/chart/?symbol=ELS) | Equity Lifestyle Properties, Inc. | ELS |
-| 13 | 95 | $161.99 | [Chart](https://www.tradingview.com/chart/?symbol=HSY) | The Hershey Company | HSY |
-| 14 | 95 | $13.80 | [Chart](https://www.tradingview.com/chart/?symbol=TSLT) | T-REX 2X Long Tesla Daily Target ETF | TSLT |
-| 8 | 94 | $132.54 | [Chart](https://www.tradingview.com/chart/?symbol=ICUI) | ICU Medical Inc | ICUI |
-| 11 | 94 | $21.74 | [Chart](https://www.tradingview.com/chart/?symbol=TUA) | Simplify Short Term Treasury Futures Strategy ETF | TUA |
-| 22 | 91 | $32.38 | [Chart](https://www.tradingview.com/chart/?symbol=INVH) | Invitation Homes Inc. Common Stock | INVH |
-| 24 | 91 | $85.88 | [Chart](https://www.tradingview.com/chart/?symbol=SIGI) | Selective Insurance Group | SIGI |
-| 14 | 90 | $110.15 | [Chart](https://www.tradingview.com/chart/?symbol=SHV) | iShares Short Treasury Bond ETF | SHV |
-| 17 | 89 | $34.54 | [Chart](https://www.tradingview.com/chart/?symbol=PECO) | Phillips Edison & Company, Inc. Common Stock | PECO |
-| 22 | 89 | $47.61 | [Chart](https://www.tradingview.com/chart/?symbol=KBR) | KBR, Inc. | KBR |
-| 12 | 88 | $71.39 | [Chart](https://www.tradingview.com/chart/?symbol=RLI) | RLI Corp. | RLI |
-| 13 | 88 | $26.66 | [Chart](https://www.tradingview.com/chart/?symbol=FCPT) | Four Corners Property Trust, Inc. | FCPT |
-| 14 | 88 | $20.17 | [Chart](https://www.tradingview.com/chart/?symbol=CON) | Concentra Group Holdings Parent, Inc. | CON |
-| 25 | 88 | $60.64 | [Chart](https://www.tradingview.com/chart/?symbol=UL) | Unilever plc | UL |
-| 21 | 87 | $104.18 | [Chart](https://www.tradingview.com/chart/?symbol=DEO) | Diageo plc | DEO |
-| 22 | 87 | $13.96 | [Chart](https://www.tradingview.com/chart/?symbol=DOLE) | Dole plc | DOLE |
-| 24 | 87 | $15.87 | [Chart](https://www.tradingview.com/chart/?symbol=BNL) | Broadstone Net Lease, Inc. | BNL |
-| 14 | 86 | $82.46 | [Chart](https://www.tradingview.com/chart/?symbol=SHY) | iShares 1-3 Year Treasury Bond ETF | SHY |
-| 14 | 86 | $22.38 | [Chart](https://www.tradingview.com/chart/?symbol=IBTH) | iShares iBonds Dec 2027 Term Treasury ETF | IBTH |
+| 9 | 95 | $48.84 | [Chart](https://www.tradingview.com/chart/?symbol=SNY) | Sanofi American Depositary Shares (Each representing one-half of one ordinary share) | SNY |
+| 9 | 95 | $62.88 | [Chart](https://www.tradingview.com/chart/?symbol=COLM) | Columbia Sportswear Co | COLM |
+| 11 | 95 | $61.98 | [Chart](https://www.tradingview.com/chart/?symbol=ELS) | Equity Lifestyle Properties, Inc. | ELS |
+| 15 | 92 | $162.71 | [Chart](https://www.tradingview.com/chart/?symbol=HSY) | The Hershey Company | HSY |
+| 17 | 92 | $13.88 | [Chart](https://www.tradingview.com/chart/?symbol=TSLT) | T-REX 2X Long Tesla Daily Target ETF | TSLT |
+| 22 | 91 | $32.33 | [Chart](https://www.tradingview.com/chart/?symbol=INVH) | Invitation Homes Inc. Common Stock | INVH |
+| 14 | 89 | $110.16 | [Chart](https://www.tradingview.com/chart/?symbol=SHV) | iShares Short Treasury Bond ETF | SHV |
+| 17 | 89 | $34.59 | [Chart](https://www.tradingview.com/chart/?symbol=PECO) | Phillips Edison & Company, Inc. Common Stock | PECO |
+| 12 | 88 | $71.24 | [Chart](https://www.tradingview.com/chart/?symbol=RLI) | RLI Corp. | RLI |
+| 13 | 88 | $20.13 | [Chart](https://www.tradingview.com/chart/?symbol=CON) | Concentra Group Holdings Parent, Inc. | CON |
+| 22 | 88 | $47.56 | [Chart](https://www.tradingview.com/chart/?symbol=KBR) | KBR, Inc. | KBR |
+| 21 | 87 | $104.35 | [Chart](https://www.tradingview.com/chart/?symbol=DEO) | Diageo plc | DEO |
+| 22 | 87 | $13.97 | [Chart](https://www.tradingview.com/chart/?symbol=DOLE) | Dole plc | DOLE |
+| 26 | 87 | $60.74 | [Chart](https://www.tradingview.com/chart/?symbol=UL) | Unilever plc | UL |
+| 14 | 86 | $82.47 | [Chart](https://www.tradingview.com/chart/?symbol=SHY) | iShares 1-3 Year Treasury Bond ETF | SHY |
+| 14 | 86 | $22.39 | [Chart](https://www.tradingview.com/chart/?symbol=IBTH) | iShares iBonds Dec 2027 Term Treasury ETF | IBTH |
 | 15 | 86 | $59.88 | [Chart](https://www.tradingview.com/chart/?symbol=FTSM) | First Trust Enhanced Short Maturity ETF | FTSM |
-| 21 | 86 | $77.14 | [Chart](https://www.tradingview.com/chart/?symbol=AWR) | American States Water Company | AWR |
-| 17 | 85 | $36.49 | [Chart](https://www.tradingview.com/chart/?symbol=OHI) | Omega Healthcare Investors Inc. | OHI |
-| 17 | 85 | $36.54 | [Chart](https://www.tradingview.com/chart/?symbol=PBA) | PEMBINA PIPELINE CORPORATION | PBA |
-| 23 | 84 | $20.63 | [Chart](https://www.tradingview.com/chart/?symbol=SPT) | Sprout Social, Inc Class A Common Stock | SPT |
-| 30 | 84 | $460.90 | [Chart](https://www.tradingview.com/chart/?symbol=LMT) | Lockheed Martin Corp. | LMT |
-| 20 | 83 | $298.04 | [Chart](https://www.tradingview.com/chart/?symbol=UTHR) | United Therapeutics Corp | UTHR |
-| 20 | 83 | $25.27 | [Chart](https://www.tradingview.com/chart/?symbol=TBBB) | BBB Foods Inc. | TBBB |
-| 23 | 82 | $18.95 | [Chart](https://www.tradingview.com/chart/?symbol=MSDL) | Morgan Stanley Direct Lending Fund | MSDL |
-| 25 | 80 | $40.98 | [Chart](https://www.tradingview.com/chart/?symbol=UDR) | UDR, Inc. | UDR |
-| 29 | 80 | $119.95 | [Chart](https://www.tradingview.com/chart/?symbol=ITGR) | Integer Holdings Corporation | ITGR |
-| 36 | 80 | $18.52 | [Chart](https://www.tradingview.com/chart/?symbol=S) | SentinelOne, Inc. | S |
-| 24 | 79 | $296.41 | [Chart](https://www.tradingview.com/chart/?symbol=ACN) | Accenture PLC | ACN |
-| 25 | 79 | $30.94 | [Chart](https://www.tradingview.com/chart/?symbol=AXTA) | Axalta Coating Systems Ltd. | AXTA |
-| 27 | 79 | $35.76 | [Chart](https://www.tradingview.com/chart/?symbol=AMH) | AMERICAN HOMES 4 RENT | AMH |
-| 24 | 78 | $23.93 | [Chart](https://www.tradingview.com/chart/?symbol=EWM) | iShares MSCI Malaysia ETF | EWM |
-| 27 | 78 | $30.13 | [Chart](https://www.tradingview.com/chart/?symbol=BAX) | Baxter International Inc. | BAX |
-| 31 | 78 | $347.57 | [Chart](https://www.tradingview.com/chart/?symbol=SHW) | The Sherwin-Williams Company | SHW |
-| 31 | 75 | $70.59 | [Chart](https://www.tradingview.com/chart/?symbol=AZN) | AstraZeneca PLC | AZN |
-| 30 | 73 | $66.83 | [Chart](https://www.tradingview.com/chart/?symbol=EQR) | Equity Residential | EQR |
-| 31 | 73 | $39.68 | [Chart](https://www.tradingview.com/chart/?symbol=LZB) | La-Z-Boy Incorporated | LZB |
-| 35 | 72 | $166.72 | [Chart](https://www.tradingview.com/chart/?symbol=EGP) | EastGroup Properties Inc. | EGP |
-| 29 | 71 | $11.56 | [Chart](https://www.tradingview.com/chart/?symbol=PTLO) | Portillo's Inc. Class A Common Stock | PTLO |
-| 33 | 70 | $239.29 | [Chart](https://www.tradingview.com/chart/?symbol=RNR) | RenaissanceRe Holdings Ltd. | RNR |
-| 37 | 68 | $22.31 | [Chart](https://www.tradingview.com/chart/?symbol=KRG) | Kite Realty Group Trust | KRG |
-| 34 | 67 | $41.46 | [Chart](https://www.tradingview.com/chart/?symbol=XLRE) | Real Estate Select Sector SPDR Fund | XLRE |
-| 39 | 66 | $102.80 | [Chart](https://www.tradingview.com/chart/?symbol=FMX) | FOMENTO ECONOMICO MEXICANO, S.A.B. DE C.V. | FMX |
-| 39 | 66 | $58.65 | [Chart](https://www.tradingview.com/chart/?symbol=ESNT) | Essent Group LTD | ESNT |
+| 16 | 86 | $36.48 | [Chart](https://www.tradingview.com/chart/?symbol=PBA) | PEMBINA PIPELINE CORPORATION | PBA |
+| 21 | 86 | $20.40 | [Chart](https://www.tradingview.com/chart/?symbol=SPT) | Sprout Social, Inc Class A Common Stock | SPT |
+| 19 | 84 | $25.23 | [Chart](https://www.tradingview.com/chart/?symbol=TBBB) | BBB Foods Inc. | TBBB |
+| 22 | 84 | $77.40 | [Chart](https://www.tradingview.com/chart/?symbol=AWR) | American States Water Company | AWR |
+| 17 | 83 | $26.76 | [Chart](https://www.tradingview.com/chart/?symbol=IVT) | InvenTrust Properties Corp. | IVT |
+| 31 | 83 | $461.99 | [Chart](https://www.tradingview.com/chart/?symbol=LMT) | Lockheed Martin Corp. | LMT |
+| 22 | 81 | $23.95 | [Chart](https://www.tradingview.com/chart/?symbol=EWM) | iShares MSCI Malaysia ETF | EWM |
+| 24 | 81 | $40.84 | [Chart](https://www.tradingview.com/chart/?symbol=UDR) | UDR, Inc. | UDR |
+| 28 | 81 | $119.77 | [Chart](https://www.tradingview.com/chart/?symbol=ITGR) | Integer Holdings Corporation | ITGR |
+| 35 | 81 | $18.46 | [Chart](https://www.tradingview.com/chart/?symbol=S) | SentinelOne, Inc. | S |
+| 24 | 80 | $19.05 | [Chart](https://www.tradingview.com/chart/?symbol=MSDL) | Morgan Stanley Direct Lending Fund | MSDL |
+| 24 | 79 | $296.48 | [Chart](https://www.tradingview.com/chart/?symbol=ACN) | Accenture PLC | ACN |
+| 25 | 79 | $30.88 | [Chart](https://www.tradingview.com/chart/?symbol=AXTA) | Axalta Coating Systems Ltd. | AXTA |
+| 26 | 79 | $35.67 | [Chart](https://www.tradingview.com/chart/?symbol=AMH) | AMERICAN HOMES 4 RENT | AMH |
+| 32 | 77 | $349.75 | [Chart](https://www.tradingview.com/chart/?symbol=SHW) | The Sherwin-Williams Company | SHW |
+| 32 | 76 | $89.89 | [Chart](https://www.tradingview.com/chart/?symbol=LPX) | Louisiana-Pacific Corp. | LPX |
+| 34 | 76 | $104.53 | [Chart](https://www.tradingview.com/chart/?symbol=CROX) | Crocs, Inc. | CROX |
+| 29 | 74 | $66.69 | [Chart](https://www.tradingview.com/chart/?symbol=EQR) | Equity Residential | EQR |
+| 30 | 74 | $39.60 | [Chart](https://www.tradingview.com/chart/?symbol=LZB) | La-Z-Boy Incorporated | LZB |
+| 28 | 72 | $11.51 | [Chart](https://www.tradingview.com/chart/?symbol=PTLO) | Portillo's Inc. Class A Common Stock | PTLO |
+| 35 | 72 | $166.97 | [Chart](https://www.tradingview.com/chart/?symbol=EGP) | EastGroup Properties Inc. | EGP |
+| 33 | 69 | $239.57 | [Chart](https://www.tradingview.com/chart/?symbol=RNR) | RenaissanceRe Holdings Ltd. | RNR |
+| 32 | 68 | $25.57 | [Chart](https://www.tradingview.com/chart/?symbol=BRX) | BRIXMOR PROPERTY GROUP INC. | BRX |
+| 37 | 68 | $22.27 | [Chart](https://www.tradingview.com/chart/?symbol=KRG) | Kite Realty Group Trust | KRG |
+| 33 | 67 | $16.36 | [Chart](https://www.tradingview.com/chart/?symbol=PLSE) | Pulse Biosciences, Inc Common Stock (DE) | PLSE |
+| 34 | 67 | $41.45 | [Chart](https://www.tradingview.com/chart/?symbol=XLRE) | Real Estate Select Sector SPDR Fund | XLRE |
+| 38 | 67 | $102.30 | [Chart](https://www.tradingview.com/chart/?symbol=FMX) | FOMENTO ECONOMICO MEXICANO, S.A.B. DE C.V. | FMX |
 
 ## **Methodology**
 
